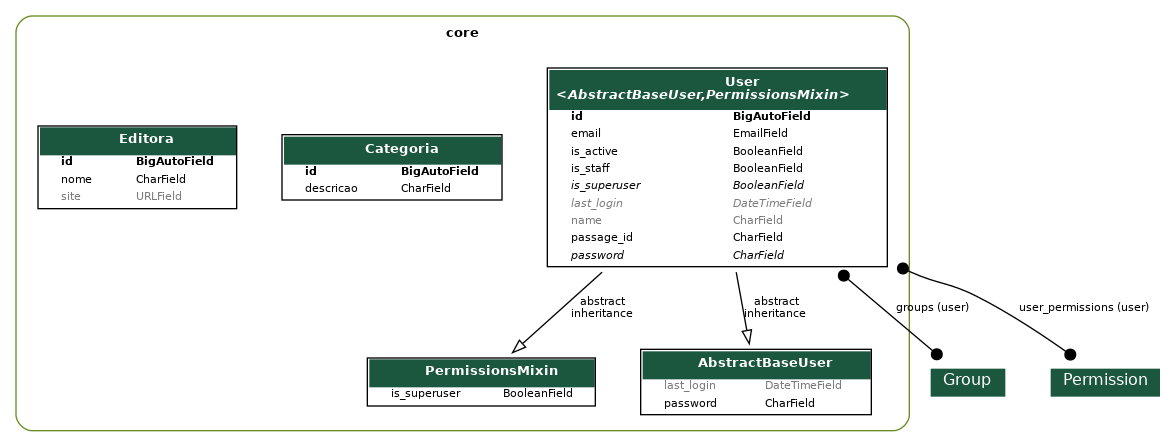
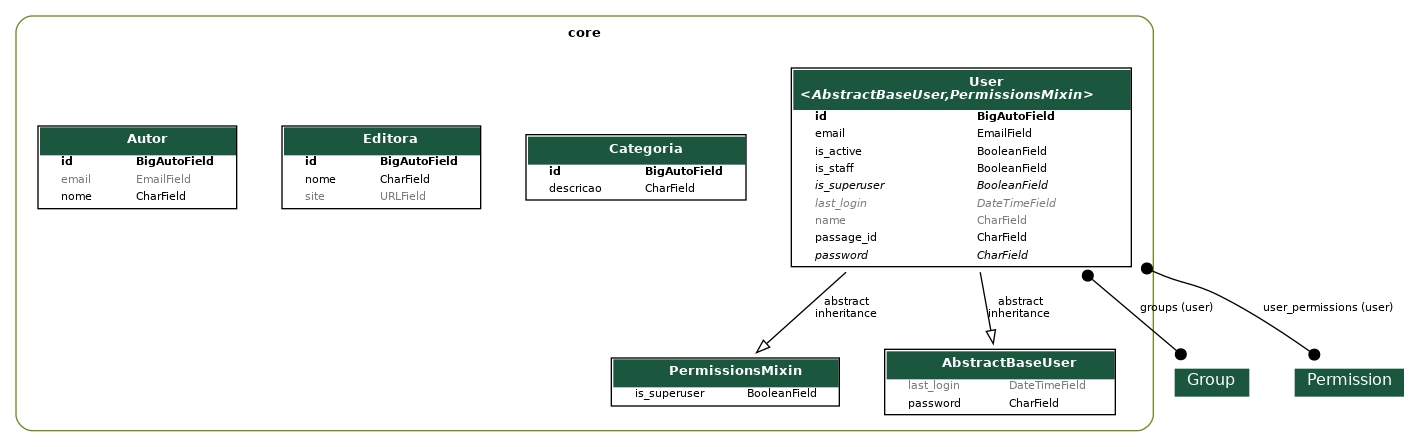
Criação da API Autor

diff --git a/core/migrations/0008_autor.py b/core/migrations/0008_autor.py
@@ -1,0 +1,21 @@
+# Generated by Django 5.1.7 on 2025-04-22 11:18
+
+from django.db import migrations, models
+
+
+class Migration(migrations.Migration):
+
+    dependencies = [
+        ('core', '0007_editora'),
+    ]
+
+    operations = [
+        migrations.CreateModel(
+            name='Autor',
+            fields=[
+                ('id', models.BigAutoField(auto_created=True, primary_key=True, serialize=False, verbose_name='ID')),
+                ('nome', models.CharField(max_length=100)),
+                ('email', models.EmailField(blank=True, max_length=100, null=True)),
+            ],
+        ),
+    ]

diff --git a/app/urls.py b/app/urls.py
@@ -8,10 +8,12 @@ from drf_spectacular.views import (
 from rest_framework.routers import DefaultRouter
 
 from core.views import UserViewSet
+from core.views import AutorViewSet
 from core.views import CategoriaViewSet
 from core.views import EditoraViewSet
 
 router = DefaultRouter()
+router.register(r'autores', AutorViewSet)
 router.register(r'categorias', CategoriaViewSet)
 router.register(r'editoras', EditoraViewSet)
 router.register(r'usuarios', UserViewSet, basename='usuarios')

diff --git a/core/models/autor.py b/core/models/autor.py
@@ -1,0 +1,12 @@
+from django.db import models
+
+class Autor(models.Model):
+    nome = models.CharField(max_length=100)
+    email = models.EmailField(max_length=100, blank=True, null=True)
+
+    def __str__(self):
+        return f"({self.id}) {self.nome}"
+    
+    class Meta:
+        verbose_name = 'Autor'
+        verbose_name_plural = 'Autores'

diff --git a/core/views/autor.py b/core/views/autor.py
@@ -1,0 +1,8 @@
+from rest_framework.viewsets import ModelViewSet
+
+from core.models import autor
+from core.serializers import AutorSerializer
+
+class AutorViewSet(ModelViewSet):
+    queryset = autor.Autor.objects.all()
+    serializer_class = AutorSerializer

diff --git a/core/serializers/autor.py b/core/serializers/autor.py
@@ -1,0 +1,7 @@
+from rest_framework.serializers import ModelSerializer
+from core.models import Autor
+
+class AutorSerializer(ModelSerializer):
+    class Meta:
+        model = Autor
+        fields = '__all__'

diff --git a/core/admin.py b/core/admin.py
@@ -52,5 +52,6 @@ class UserAdmin(BaseUserAdmin):
 
 
 admin.site.register(models.User, UserAdmin)
+admin.site.register(models.Autor)
 admin.site.register(models.Categoria)
 admin.site.register(models.Editora)

diff --git a/core/serializers/__init__.py b/core/serializers/__init__.py
@@ -1,3 +1,4 @@
 from .user import UserSerializer
 from .categoria import CategoriaSerializer
 from .editora import EditoraSerializer
+from .autor import AutorSerializer

diff --git a/core/views/__init__.py b/core/views/__init__.py
@@ -1,3 +1,4 @@
 from .user import UserViewSet
 from .categoria import CategoriaViewSet
 from .editora import EditoraViewSet
+from .autor import AutorViewSet

diff --git a/core/models/categoria.py b/core/models/categoria.py
@@ -1,6 +1,5 @@
 from django.db import models
 
-
 class Categoria(models.Model):
     descricao = models.CharField(max_length=100)
 

diff --git a/core/models/__init__.py b/core/models/__init__.py
@@ -1,3 +1,4 @@
 from .user import User
 from .categoria import Categoria
 from .editora import Editora 
+from .autor import Autor
